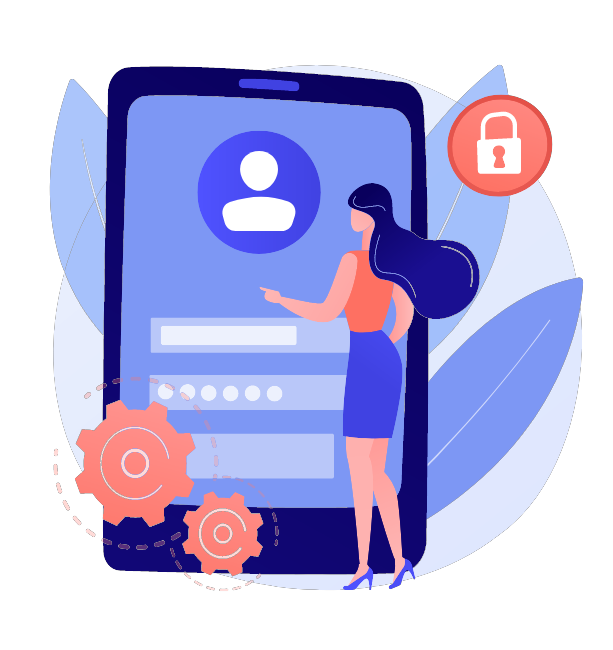
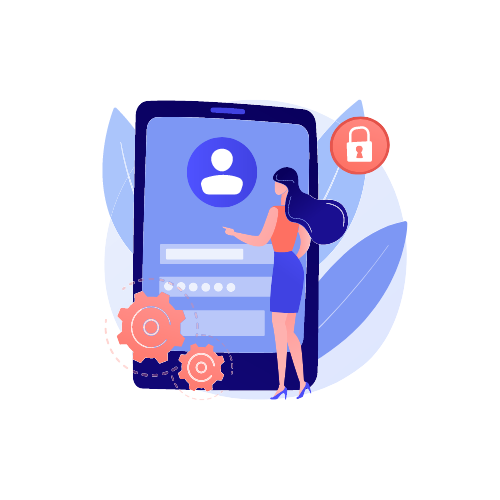
add

diff --git a/src/components/Auth.jsx b/src/components/Auth.jsx
@@ -1,10 +1,30 @@
 import React, { useState } from 'react';
 import signinImage from '../pics/signin_img.png';
 
+const initialState = {
+    fullName: '',
+    username: '',
+    password: '',
+    confirmPassword: '',
+    phoneNumber: '',
+    avatarURL: '',
+}
 const Auth = () => {
+
+    const [form, setForm] = useState(initialState);
+
     const [isSignup, setIsSignup] = useState(true);
 
-    const handleChange = () => {}
+    const handleChange = (e) => {
+        setForm({ ...form, [e.target.name]: e.target.value});
+        //console.log(form);
+    }
+
+    const handleSubmit = (e) => {
+        e.preventDefault();
+        console.log (form);
+
+    }
 
     const switchMode = () =>{
         setIsSignup((prevIsSignup) => !prevIsSignup);
@@ -15,7 +35,7 @@ const Auth = () => {
         <div className='auth__form-container_fields'>
             <div className='auth__form-container_fields-content'>
                 <p>{isSignup ? 'Sign Up': 'Sign In'}</p>
-                <form onSubmit={() => {}}>
+                <form onSubmit={handleSubmit}>
                     {isSignup && (
                         <div className='auth__form-container_fields-content_input'>
                             <label htmlFor='fullName'>Full Name</label>
@@ -90,6 +110,10 @@ const Auth = () => {
 
                     )}
 
+                <div className='auth__form-container_fields-content_button'>
+                    <button>{isSignup ? "Sign Up" : "Sign In"}</button>
+                </div>
+
                 </form>
                 <div className='auth__form-container_fields-account'>
                         <p>
@@ -107,7 +131,7 @@ const Auth = () => {
         </div>
 
         <div className='auth__form-container_image'>
-            <img src={signinImage} alt='sign in' style={{  height: 'auto' }} />
+            <img src={signinImage} alt='sign in' />
 
         </div>
 
